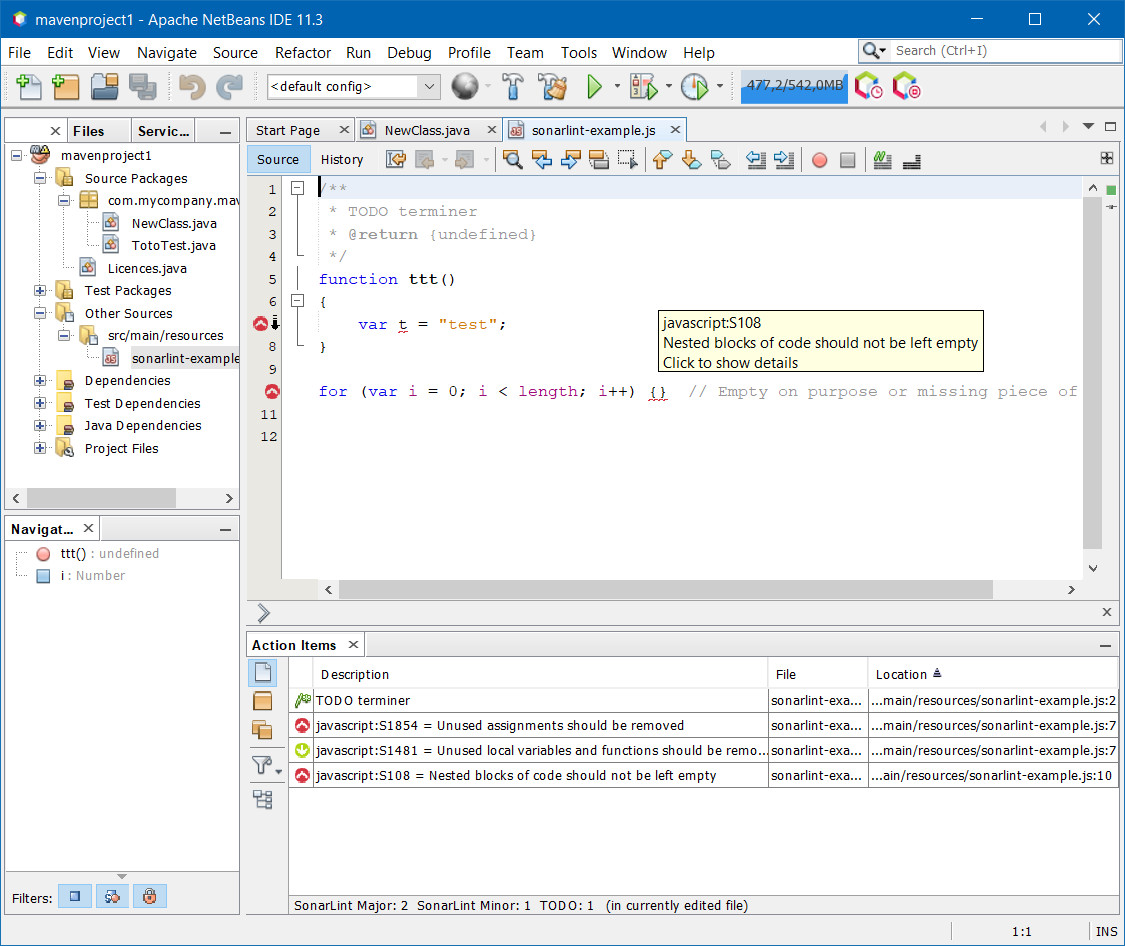
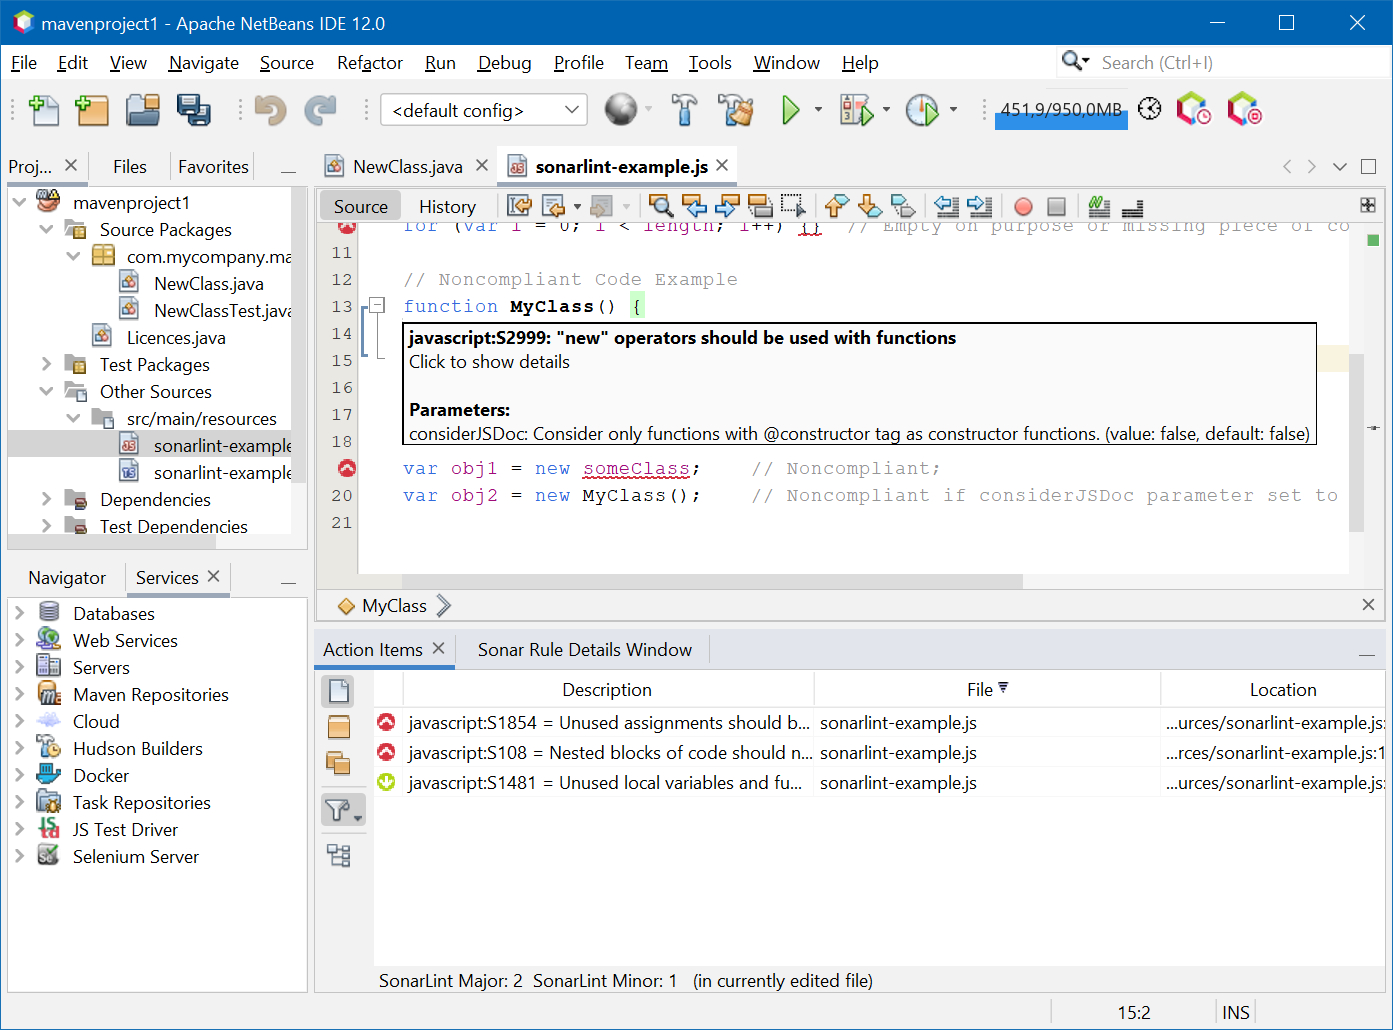
Show rule parameter value in annotation tooltip and details window #16

diff --git a/src/test/java/com/github/philippefichet/sonarlint4netbeans/SonarLintUtilsTest.java b/src/test/java/com/github/philippefichet/sonarlint4netbeans/SonarLintUtilsTest.java
@@ -30,21 +30,23 @@ import java.util.ArrayList;
 import java.util.Arrays;
 import java.util.Collections;
 import java.util.List;
+import java.util.Map;
 import java.util.Optional;
 import java.util.prefs.BackingStoreException;
 import java.util.stream.Collectors;
 import org.assertj.core.api.Assertions;
+import org.junit.jupiter.api.DisplayName;
 import org.junit.jupiter.api.Test;
 import org.junit.jupiter.params.ParameterizedTest;
 import org.junit.jupiter.params.provider.Arguments;
 import org.junit.jupiter.params.provider.MethodSource;
 import org.openide.filesystems.FileUtil;
 import org.openide.nodes.Node;
-import org.openide.util.Lookup;
 import org.openide.util.Utilities;
 import org.sonarsource.sonarlint.core.client.api.common.RuleKey;
 import org.sonarsource.sonarlint.core.client.api.common.Version;
 import org.sonarsource.sonarlint.core.client.api.common.analysis.Issue;
+import org.sonarsource.sonarlint.core.client.api.standalone.StandaloneRuleParam;
 
 /**
  *
@@ -52,10 +54,13 @@ import org.sonarsource.sonarlint.core.client.api.common.analysis.Issue;
  */
 public class SonarLintUtilsTest {
     @Test
-    public void analyze() throws IOException {
+    @DisplayName("Analyze hierarchical tree used in \"Analyze with Sonarlint\"")
+    public void likeAnalyzeWithSonarlint() throws IOException, BackingStoreException {
         // first step, check all issue in file
         List<Issue> actualIssues = new ArrayList<>();
         List<Issue> expectedIssues = getExpectedIssueForNewClassFile();
+        // Clean engine before use
+        SonarLintTestUtils.cleanSonarLintEngine();
         SonarLintUtils.analyze(
            Arrays.asList(FileUtil.normalizeFile(new File("./src/test/resources/NewClass.java"))),
             actualIssues::add,
@@ -169,9 +174,9 @@ public class SonarLintUtilsTest {
     }
 
     @Test
-    public void analyzeWithParameter() throws BackingStoreException, IOException {
-        SonarLintEngine sonarLintEngine = Lookup.getDefault().lookup(SonarLintEngine.class);
-        sonarLintEngine.getPreferences().removeNode();
+    @DisplayName("Analyze hierarchical tree used in \"Analyze with Sonarlint\" with a custom rule parameter value")
+    public void likeAnalyzeWithSonarlintWithParameter() throws BackingStoreException, IOException {
+        SonarLintEngine sonarLintEngine = SonarLintTestUtils.getCleanSonarLintEngine();
         sonarLintEngine.getAllRuleDetails().forEach(ruleKey -> sonarLintEngine.excludeRuleKey(RuleKey.parse(ruleKey.getKey())));
         sonarLintEngine.includeRuleKey( RuleKey.parse("java:S100"));
         sonarLintEngine.includeRuleKey( RuleKey.parse("java:S1186"));
@@ -373,9 +378,9 @@ public class SonarLintUtilsTest {
     }
 
     @Test
+    @DisplayName("Analyze with custom rule parameter value")
     public void ruleParameterChanged() throws MalformedURLException, IOException, BackingStoreException {
-        SonarLintEngine sonarLintEngine = Lookup.getDefault().lookup(SonarLintEngine.class);
-        sonarLintEngine.getPreferences().removeNode();
+        SonarLintEngine sonarLintEngine = SonarLintTestUtils.getCleanSonarLintEngine();
         String ruleKeyString = "java:S115";
         sonarLintEngine.getAllRuleDetails().forEach(ruleKey -> sonarLintEngine.excludeRuleKey(RuleKey.parse(ruleKey.getKey())));
         sonarLintEngine.includeRuleKey( RuleKey.parse(ruleKeyString));
@@ -390,6 +395,7 @@ public class SonarLintUtilsTest {
     }
 
     @Test
+    @DisplayName("Detect nodejs version")
     public void detectNodeJSVersion() throws IOException
     {
         SonarLintTestUtils.installNodeJS();
@@ -397,5 +403,34 @@ public class SonarLintUtilsTest {
         String node = Utilities.isWindows() ? "node.exe" : "bin/node";
         Optional<Version> detectNodeJSVersion = SonarLintUtils.detectNodeJSVersion(nodeJSDirectory.getAbsolutePath() + File.separator + node);
         Assertions.assertThat(detectNodeJSVersion).isPresent().get().isEqualTo(Version.create(SonarLintTestUtils.getNodeJSVersion()));
+    }
+
+    @Test
+    @DisplayName("Check default rule parameter value from extractRuleParameters")
+    public void extractRuleParametersWithDefaultValue() throws BackingStoreException
+    {
+        SonarLintEngine sonarLintEngine = SonarLintTestUtils.getCleanSonarLintEngine();
+        String ruleKeyString = "java:S115";
+        sonarLintEngine.getAllRuleDetails().forEach(ruleKey -> sonarLintEngine.excludeRuleKey(RuleKey.parse(ruleKey.getKey())));
+        sonarLintEngine.includeRuleKey( RuleKey.parse(ruleKeyString));
+        Map<StandaloneRuleParam, String> extractRuleParameters = SonarLintUtils.extractRuleParameters(sonarLintEngine, ruleKeyString);
+        Assertions.assertThat(extractRuleParameters)
+            .hasSize(1)
+            .containsValue("^[A-Z][A-Z0-9]*(_[A-Z0-9]+)*$");
+    }
+    
+    @Test
+    @DisplayName("Check custom rule parameter value from extractRuleParameters")
+    public void extractRuleParametersWithCustomValue() throws BackingStoreException
+    {
+        SonarLintEngine sonarLintEngine = SonarLintTestUtils.getCleanSonarLintEngine();
+        String ruleKeyString = "java:S115";
+        sonarLintEngine.getAllRuleDetails().forEach(ruleKey -> sonarLintEngine.excludeRuleKey(RuleKey.parse(ruleKey.getKey())));
+        sonarLintEngine.includeRuleKey( RuleKey.parse(ruleKeyString));
+        sonarLintEngine.setRuleParameter(ruleKeyString, "format", "^[A-Z]*$");
+        Map<StandaloneRuleParam, String> extractRuleParameters = SonarLintUtils.extractRuleParameters(sonarLintEngine, ruleKeyString);
+        Assertions.assertThat(extractRuleParameters)
+            .hasSize(1)
+            .containsValue("^[A-Z]*$");
     }
 }

diff --git a/src/main/java/com/github/philippefichet/sonarlint4netbeans/SonarLintUtils.java b/src/main/java/com/github/philippefichet/sonarlint4netbeans/SonarLintUtils.java
@@ -33,7 +33,9 @@ import java.nio.file.attribute.BasicFileAttributes;
 import java.util.ArrayList;
 import java.util.Collection;
 import java.util.Collections;
+import java.util.HashMap;
 import java.util.List;
+import java.util.Map;
 import java.util.Optional;
 import java.util.function.Predicate;
 import java.util.logging.Logger;
@@ -210,14 +212,73 @@ public final class SonarLintUtils {
     /**
      * Retrieve HTML detail description of rule
      * @param ruleDetails Detail of rule
+     * @param ruleParams rule parameter values
      * @return HTML detail description of rule
      */
-    public static String toHtmlDescription(RuleDetails ruleDetails)
+    public static String toHtmlDescription(RuleDetails ruleDetails, Map<StandaloneRuleParam, String> ruleParams)
     {
-        return "<div id=\"" + ruleDetails.getKey().replaceAll(":", "-") + "\">"
-            + "<h1><a href=\"" + SonarLintUtils.toURL(ruleDetails) + "\">" + StringEscapeUtils.escapeHtml4(ruleDetails.getName()) + "</a></h1>"
-            + ruleDetails.getHtmlDescription()
-            + "</div>";
+        StringBuilder sb = new StringBuilder();
+        sb.append("<div id=\"")
+            .append(ruleDetails.getKey().replaceAll(":", "-"))
+            .append("\">\n")
+            .append("<h1><a href=\"")
+            .append(SonarLintUtils.toURL(ruleDetails))
+            .append("\">")
+            .append(StringEscapeUtils.escapeHtml4(ruleDetails.getName()))
+            .append("</a></h1>\n")
+        ;
+        sb.append(ruleDetails.getHtmlDescription())
+            .append("\n</div>")
+        ;
+        if (!ruleParams.isEmpty()) {
+            sb.append("<div class=\"rule-parameters-container\">\n");
+            sb.append("<h2>Parameters</h2>\n");
+            for (Map.Entry<StandaloneRuleParam, String> entry : ruleParams.entrySet()) {
+                StandaloneRuleParam standaloneRuleParam = entry.getKey();
+                sb.append("<div class=\"rule-parameters-param\">\n<strong class=\"rule-parameters-param-name\">")
+                    .append(standaloneRuleParam.name())
+                    .append("</strong>: <span class=\"rule-parameters-description\">")
+                    .append(standaloneRuleParam.description())
+                    .append("</span>. (<span>value</span>: <span class=\"rule-parameters-value\">")
+                    .append(entry.getValue())
+                    .append("</span>, <span>default</span>: <span class=\"rule-parameters-default\">")
+                    .append(standaloneRuleParam.defaultValue())
+                    .append("</span>)</div>\n");
+            }
+            sb.append("</div>\n");
+        }
+        return sb.toString();
+    }
+
+    /**
+     * Extract all parameters of rule with customized or defaut value
+     * @param sonarLintEngine
+     * @param ruleKey rule key ("java:S115", ...)
+     * @return 
+     */
+    public static Map<StandaloneRuleParam, String> extractRuleParameters(SonarLintEngine sonarLintEngine, String ruleKey)
+    {
+        Optional<StandaloneRuleDetails> ruleDetailsOptional = sonarLintEngine.getRuleDetails(ruleKey);
+        if (ruleDetailsOptional.isPresent())
+        {
+            StandaloneRuleDetails ruleDetails = ruleDetailsOptional.get();
+            Map<StandaloneRuleParam, String> ruleParameters = new HashMap<>();
+            Collection<StandaloneRuleParam> paramDetails = ruleDetails.paramDetails();
+            if(paramDetails.isEmpty()) {
+                return Collections.emptyMap();
+            }
+            for (StandaloneRuleParam paramDetail : paramDetails) {
+                ruleParameters.put(
+                    paramDetail,
+                    sonarLintEngine.getRuleParameter(ruleKey, paramDetail.name()).orElseGet(paramDetail::defaultValue)
+                );
+            }
+            return ruleParameters;
+        }
+        else
+        {
+            return Collections.emptyMap();
+        }
     }
 
     /**

diff --git a/src/main/java/com/github/philippefichet/sonarlint4netbeans/SonarLintAnnotation.java b/src/main/java/com/github/philippefichet/sonarlint4netbeans/SonarLintAnnotation.java
@@ -19,7 +19,10 @@
  */
 package com.github.philippefichet.sonarlint4netbeans;
 
+import java.util.Map;
+import org.apache.commons.text.StringEscapeUtils;
 import org.openide.text.Annotation;
+import org.sonarsource.sonarlint.core.client.api.standalone.StandaloneRuleParam;
 /**
  *
  * @author FICHET Philippe
@@ -39,14 +42,37 @@ public class SonarLintAnnotation extends Annotation {
     private final String ruleName;
     private final String severity;
 
-    public SonarLintAnnotation(String ruleKey, String ruleName, String severity, long startOffest, int length) {
+    public SonarLintAnnotation(String ruleKey, String ruleName, Map<StandaloneRuleParam, String> ruleParams, String severity, long startOffest, int length) {
         super();
         this.startOffest = startOffest;
         this.length = length;
         this.ruleKey = ruleKey;
         this.ruleName = ruleName;
         this.severity = severity;
-        this.shortDescription = ruleKey + "\n" + ruleName + "\nClick to show details";
+        StringBuilder sb = new StringBuilder("<html>");
+        sb.append("<strong>");
+        sb.append(ruleKey);
+        sb.append(": ")
+            .append(StringEscapeUtils.escapeHtml4(ruleName))
+            .append("</strong>")
+            .append("<br/>Click to show details");
+        if (!ruleParams.isEmpty()) {
+            sb.append("<br/><br/><strong>Parameters:</strong><br/>");
+            for (Map.Entry<StandaloneRuleParam, String> ruleParam : ruleParams.entrySet()) {
+                StandaloneRuleParam standaloneRuleParam = ruleParam.getKey();
+                sb.append("<div>")
+                    .append(standaloneRuleParam.name())
+                    .append(": ")
+                    .append(standaloneRuleParam.description())
+                    .append(". (value: ")
+                    .append(ruleParam.getValue())
+                    .append(", default: ")
+                    .append(standaloneRuleParam.defaultValue())
+                    .append(")</div>");
+            }
+        }
+        this.shortDescription = sb.append("</html>")
+            .toString();
     }
 
     public long getStartOffest() {

diff --git a/src/test/java/com/github/philippefichet/sonarlint4netbeans/SonarLintTestUtils.java b/src/test/java/com/github/philippefichet/sonarlint4netbeans/SonarLintTestUtils.java
@@ -31,11 +31,16 @@ import java.nio.file.Files;
 import java.nio.file.Path;
 import java.nio.file.Paths;
 import java.nio.file.StandardCopyOption;
+import java.util.ArrayList;
+import java.util.List;
+import java.util.prefs.BackingStoreException;
 import org.apache.commons.compress.archivers.tar.TarArchiveEntry;
 import org.apache.commons.compress.archivers.tar.TarArchiveInputStream;
 import org.apache.commons.compress.compressors.gzip.GzipCompressorInputStream;
+import org.openide.util.Lookup;
 import org.openide.util.Utilities;
 import org.sonar.api.utils.ZipUtils;
+import org.sonarsource.sonarlint.core.client.api.common.RuleKey;
 
 /*
  * Copyright (C) 2021 Philippe FICHET.
@@ -161,5 +166,40 @@ public final class SonarLintTestUtils {
         } else {
             throw new IllegalStateException("Arch \"" + osArch + "\" is not supported");
         }
+    }
+
+    /**
+     * Retrieve SonarLintEngine from Lookup but clean all configuration
+     * @return clean SonarLintEngine
+     * @throws BackingStoreException 
+     */
+    public static SonarLintEngine getCleanSonarLintEngine() throws BackingStoreException
+    {
+        SonarLintEngine sonarLintEngine = Lookup.getDefault().lookup(SonarLintEngine.class);
+        cleanSonarLintEngine(sonarLintEngine);
+        return sonarLintEngine;
+    }
+
+    /**
+     * Clean all configuration of SonarLintEngine
+     * @param sonarLintEngine engine to clean
+     * @throws BackingStoreException 
+     */
+    public static void cleanSonarLintEngine(SonarLintEngine sonarLintEngine) throws BackingStoreException
+    {
+        List<RuleKey> arrayList = new ArrayList<>(sonarLintEngine.getExcludedRules());
+        for (RuleKey ruleKey : arrayList) {
+            sonarLintEngine.includeRuleKey(ruleKey);
+        }
+        sonarLintEngine.getPreferences().removeNode();
+    }
+    
+    /**
+     * Clean all configuration of SonarLintEngine from Lookup
+     * @throws BackingStoreException 
+     */
+    public static void cleanSonarLintEngine() throws BackingStoreException
+    {
+        cleanSonarLintEngine(Lookup.getDefault().lookup(SonarLintEngine.class));
     }
 }

diff --git a/src/main/java/com/github/philippefichet/sonarlint4netbeans/SonarLintAnnotationHandler.java b/src/main/java/com/github/philippefichet/sonarlint4netbeans/SonarLintAnnotationHandler.java
@@ -68,9 +68,9 @@ public final class SonarLintAnnotationHandler {
         return Optional.empty();
     }
 
-    public static void analyze(SonarLintEngine standaloneSonarLintEngineImpl, FileObject fileObject, String textToAnalyze) throws DataObjectNotFoundException, IOException {
+    public static void analyze(SonarLintEngine standaloneSonarLintEngine, FileObject fileObject, String textToAnalyze) throws DataObjectNotFoundException, IOException {
         // Sonarlint not ready
-        if (standaloneSonarLintEngineImpl == null) {
+        if (standaloneSonarLintEngine == null) {
             return;
         }
         final EditorCookie editorCookie = DataObject.find(fileObject).getCookie(EditorCookie.class);
@@ -120,6 +120,7 @@ public final class SonarLintAnnotationHandler {
                 new SonarLintAnnotation(
                     sue.getRuleKey(),
                     sue.getRuleName(),
+                    SonarLintUtils.extractRuleParameters(standaloneSonarLintEngine, sue.getRuleKey()),
                     sue.getSeverity(),
                     startOffset,
                     length

diff --git a/src/main/java/com/github/philippefichet/sonarlint4netbeans/SonarRuleDetailsTopComponent.java b/src/main/java/com/github/philippefichet/sonarlint4netbeans/SonarRuleDetailsTopComponent.java
@@ -191,7 +191,10 @@ public final class SonarRuleDetailsTopComponent extends TopComponent {
             if (optionalRuleDetails.isPresent()) {
                 RuleDetails ruleDetails = optionalRuleDetails.get();
                 String customCss = SonarLintUtils.toRuleDetailsStyleSheet(sonarLintOptions);
-                String html = SonarLintUtils.toHtmlDescription(ruleDetails);
+                String html = SonarLintUtils.toHtmlDescription(
+                    ruleDetails,
+                    SonarLintUtils.extractRuleParameters(sonarLintEngine, ruleDetails.getKey())
+                );
                 sonarLintRuleDetailsEditor.setText(customCss + html);
                 sonarLintRuleDetailsEditorHtmlSource.setText(html);
                 sonarLintRuleDetailsEditor.getCaret().moveDot(0);

diff --git a/src/main/java/com/github/philippefichet/sonarlint4netbeans/SonarLintRuleSettings.java b/src/main/java/com/github/philippefichet/sonarlint4netbeans/SonarLintRuleSettings.java
@@ -89,7 +89,7 @@ public class SonarLintRuleSettings extends javax.swing.JDialog {
         String ruleKey = ruleDetails.getKey();
         // Set rule description and dialog
         String customCss = SonarLintUtils.toRuleDetailsStyleSheet(sonarLintOptions);
-        String html = SonarLintUtils.toHtmlDescription(ruleDetails);
+        String html = SonarLintUtils.toHtmlDescription(ruleDetails, SonarLintUtils.extractRuleParameters(sonarLintEngine, ruleDetails.getKey()));
         ruleDescription.setText(customCss + html);
         setTitle(ruleKey + ": " + ruleDetails.getName());
         DefaultTableModel tableModel = (DefaultTableModel)ruleParametersTable.getModel();

diff --git a/src/test/java/com/github/philippefichet/sonarlint4netbeans/SonarLintAnalyserIssueComparatorTest.java b/src/test/java/com/github/philippefichet/sonarlint4netbeans/SonarLintAnalyserIssueComparatorTest.java
@@ -73,7 +73,7 @@ public class SonarLintAnalyserIssueComparatorTest {
         };
     }
 
-    @ParameterizedTest
+    @ParameterizedTest(name = "[{index}] Compare issue {1} and {2} with order {3}")
     @MethodSource("parametersForCompare")
     public void compare(Issue o1, Issue o2, CompareOrder compareOrder)
     {
@@ -97,7 +97,7 @@ public class SonarLintAnalyserIssueComparatorTest {
         }
     }
 
-    @ParameterizedTest
+    @ParameterizedTest(name = "[{index}] Sorting issue {1} and {2} with order {3}")
     @MethodSource("parametersForCompare")
     public void sort(Issue o1, Issue o2, CompareOrder compareOrder)
     {
